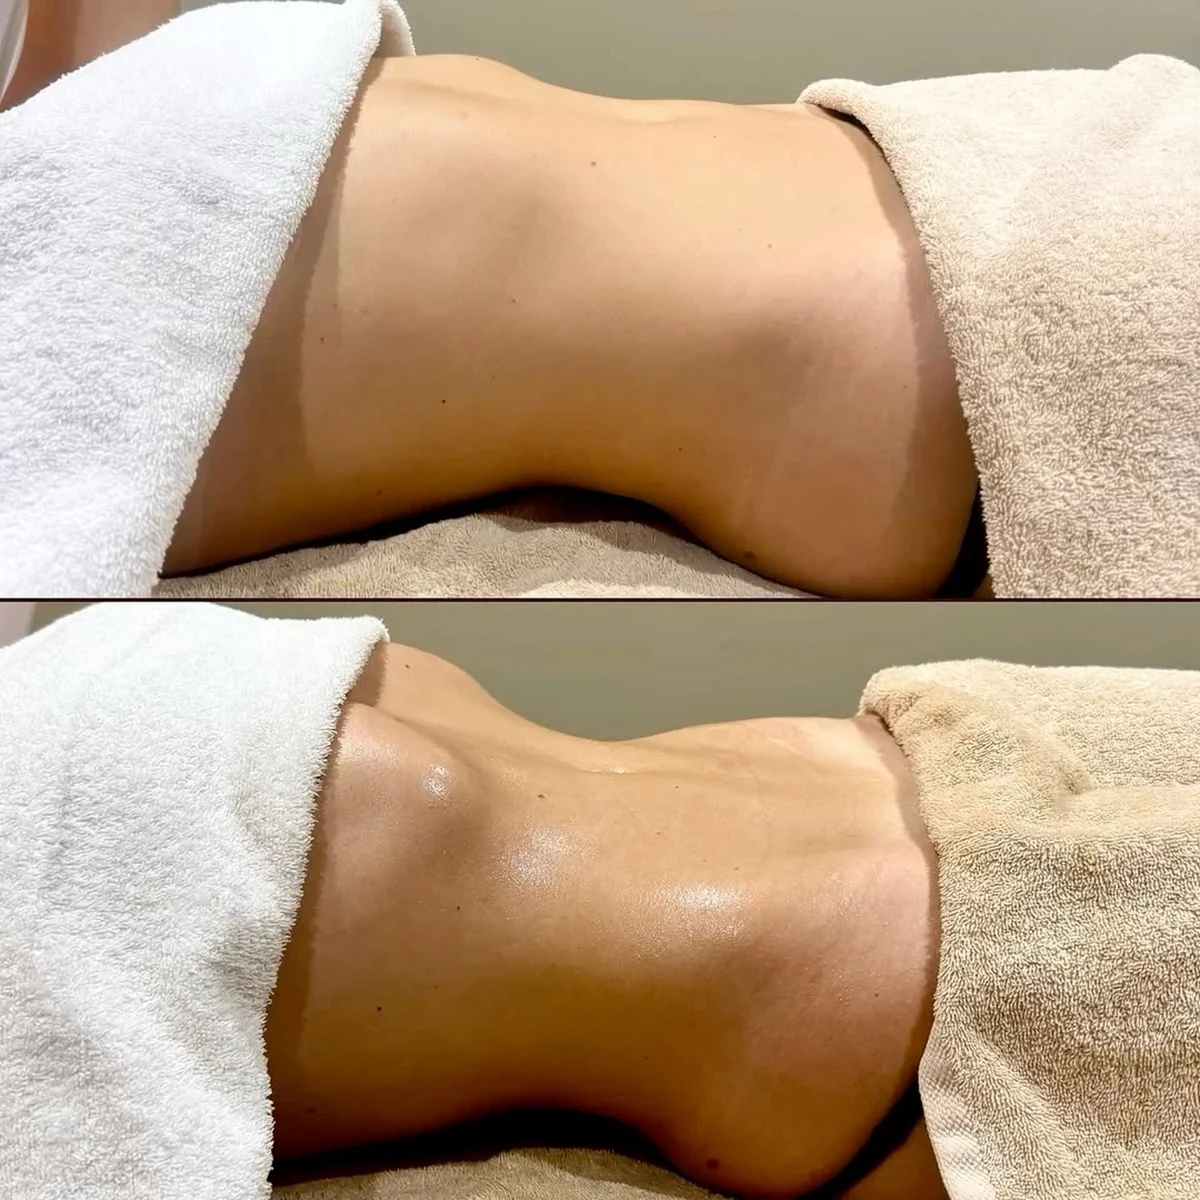
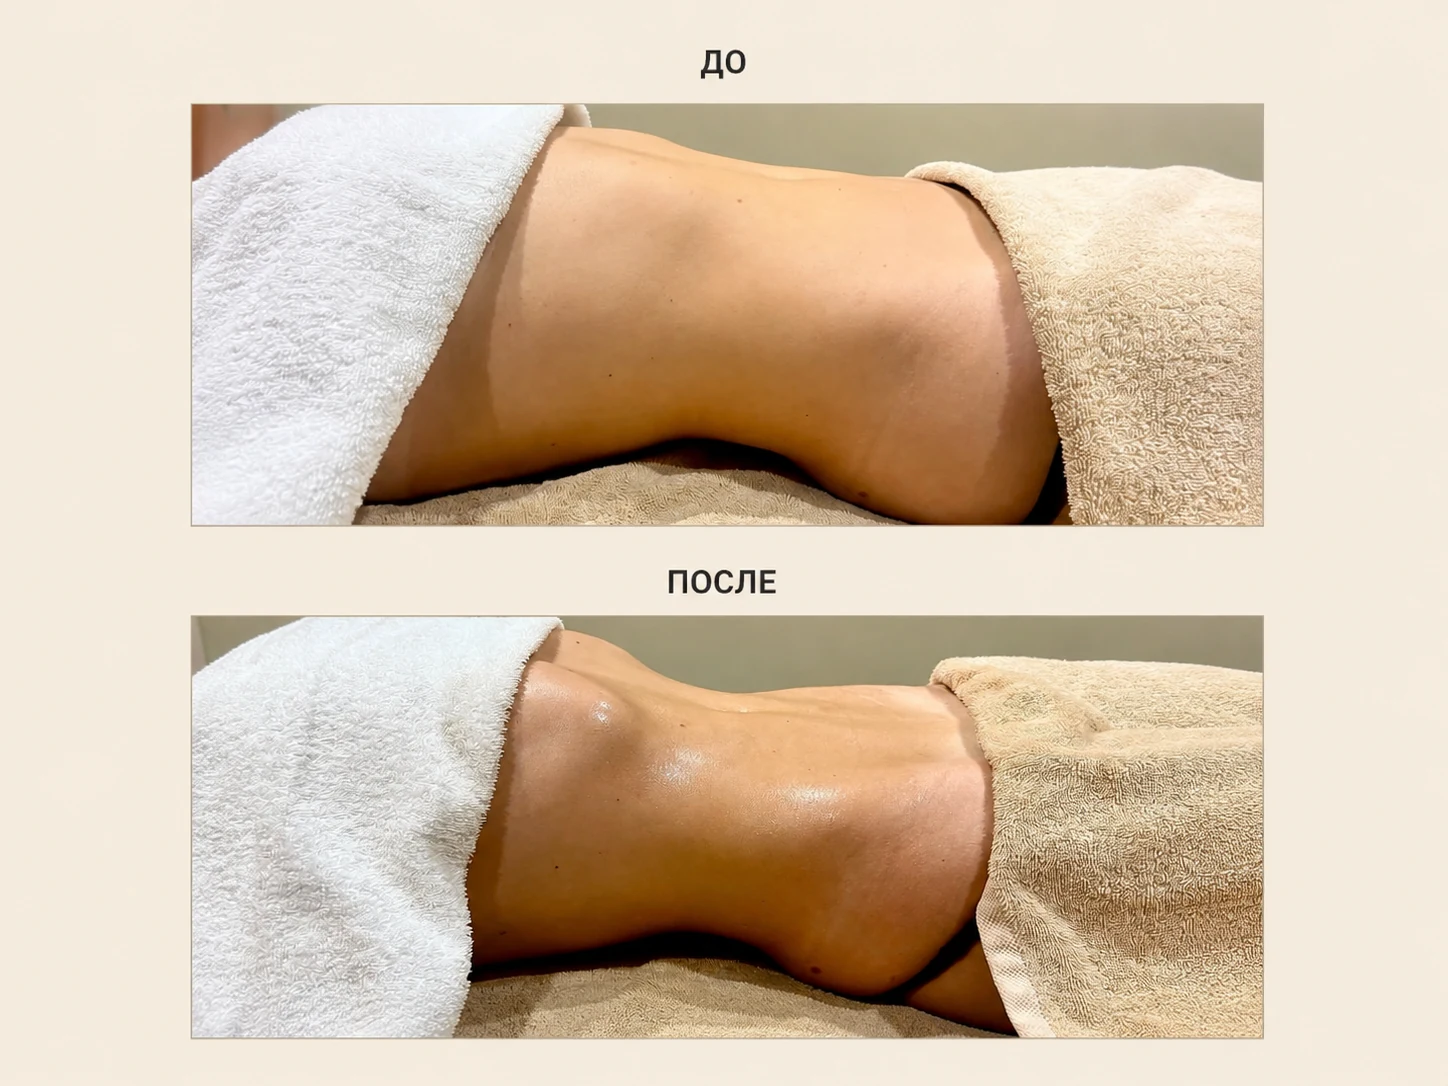
Перекадрировал 2 фото: обрезка 4:3 срезала смысл кадра
«Классический массаж спины» (u-back) — в исходном портретном кадре при
обрезке под карточку 4:3 в кадр попадала только голова, руки мастера уходили
за край. Поставлена версия с более широким кадром по горизонтали — спина
и руки видны целиком.

«Французская талия» (u-waist) — коллаж «до/после» без подписей терял середину
при центрированной обрезке 4:3. Поставлена версия 1448×1086 (уже готовое
соотношение 4:3) с подписями «ДО» и «ПОСЛЕ» над каждой половиной — теперь
CSS ничего не обрезает, обе панели видны полностью.

diff --git a/uslugi/korrekciya-figury/anticellyulitnyy-kompleks/index.html b/uslugi/korrekciya-figury/anticellyulitnyy-kompleks/index.html
@@ -180,7 +180,7 @@ if (window.CUERPO_METRIKA){
 <article class="card-s reveal">
   <a class="card-s__open" href="../../../uslugi/korrekciya-figury/francuzskaya-taliya/index.html">
     <span class="card-s__pic">
-      <img src="../../../assets/img/u-waist.webp" width="1200" height="1200" loading="lazy" decoding="async" alt="Результат до и после программы «Французская талия» в салоне Cuerpo в Тольятти">
+      <img src="../../../assets/img/u-waist.webp" width="1448" height="1086" loading="lazy" decoding="async" alt="Результат до и после программы «Французская талия» в салоне Cuerpo в Тольятти">
       <span class="card-s__more"><svg viewBox="0 0 24 24" aria-hidden="true"><path d="M9 6l6 6-6 6"/></svg></span>
     </span>
   </a>
@@ -218,7 +218,7 @@ if (window.CUERPO_METRIKA){
 <article class="card-s reveal">
   <a class="card-s__open" href="../../../uslugi/avtorskiy-massazh/massazh-spiny/index.html">
     <span class="card-s__pic">
-      <img src="../../../assets/img/u-back.webp" width="784" height="1168" loading="lazy" decoding="async" alt="Классический массаж спины в салоне Cuerpo в Тольятти">
+      <img src="../../../assets/img/u-back.webp" width="784" height="732" loading="lazy" decoding="async" alt="Классический массаж спины в салоне Cuerpo в Тольятти">
       <span class="card-s__more"><svg viewBox="0 0 24 24" aria-hidden="true"><path d="M9 6l6 6-6 6"/></svg></span>
     </span>
   </a>

diff --git a/uslugi/korrekciya-figury/anticellyulitnyy-nogi/index.html b/uslugi/korrekciya-figury/anticellyulitnyy-nogi/index.html
@@ -180,7 +180,7 @@ if (window.CUERPO_METRIKA){
 <article class="card-s reveal">
   <a class="card-s__open" href="../../../uslugi/korrekciya-figury/francuzskaya-taliya/index.html">
     <span class="card-s__pic">
-      <img src="../../../assets/img/u-waist.webp" width="1200" height="1200" loading="lazy" decoding="async" alt="Результат до и после программы «Французская талия» в салоне Cuerpo в Тольятти">
+      <img src="../../../assets/img/u-waist.webp" width="1448" height="1086" loading="lazy" decoding="async" alt="Результат до и после программы «Французская талия» в салоне Cuerpo в Тольятти">
       <span class="card-s__more"><svg viewBox="0 0 24 24" aria-hidden="true"><path d="M9 6l6 6-6 6"/></svg></span>
     </span>
   </a>
@@ -218,7 +218,7 @@ if (window.CUERPO_METRIKA){
 <article class="card-s reveal">
   <a class="card-s__open" href="../../../uslugi/avtorskiy-massazh/massazh-spiny/index.html">
     <span class="card-s__pic">
-      <img src="../../../assets/img/u-back.webp" width="784" height="1168" loading="lazy" decoding="async" alt="Классический массаж спины в салоне Cuerpo в Тольятти">
+      <img src="../../../assets/img/u-back.webp" width="784" height="732" loading="lazy" decoding="async" alt="Классический массаж спины в салоне Cuerpo в Тольятти">
       <span class="card-s__more"><svg viewBox="0 0 24 24" aria-hidden="true"><path d="M9 6l6 6-6 6"/></svg></span>
     </span>
   </a>

diff --git a/index.html b/index.html
@@ -269,7 +269,7 @@ if (window.CUERPO_METRIKA){
 <article class="card-s reveal">
   <a class="card-s__open" href="uslugi/avtorskiy-massazh/massazh-spiny/index.html">
     <span class="card-s__pic">
-      <img src="assets/img/u-back.webp" width="784" height="1168" loading="lazy" decoding="async" alt="Классический массаж спины в салоне Cuerpo в Тольятти">
+      <img src="assets/img/u-back.webp" width="784" height="732" loading="lazy" decoding="async" alt="Классический массаж спины в салоне Cuerpo в Тольятти">
       <span class="card-s__more"><svg viewBox="0 0 24 24" aria-hidden="true"><path d="M9 6l6 6-6 6"/></svg></span>
     </span>
   </a>
@@ -289,7 +289,7 @@ if (window.CUERPO_METRIKA){
 <article class="card-s reveal">
   <a class="card-s__open" href="uslugi/korrekciya-figury/francuzskaya-taliya/index.html">
     <span class="card-s__pic">
-      <img src="assets/img/u-waist.webp" width="1200" height="1200" loading="lazy" decoding="async" alt="Результат до и после программы «Французская талия» в салоне Cuerpo в Тольятти">
+      <img src="assets/img/u-waist.webp" width="1448" height="1086" loading="lazy" decoding="async" alt="Результат до и после программы «Французская талия» в салоне Cuerpo в Тольятти">
       <span class="card-s__more"><svg viewBox="0 0 24 24" aria-hidden="true"><path d="M9 6l6 6-6 6"/></svg></span>
     </span>
   </a>

diff --git a/uslugi/korrekciya-figury/francuzskaya-taliya/index.html b/uslugi/korrekciya-figury/francuzskaya-taliya/index.html
@@ -114,7 +114,7 @@ if (window.CUERPO_METRIKA){
 
     <div class="svcp">
       <figure class="svcp__pic reveal">
-        <img src="../../../assets/img/u-waist.webp" width="1200" height="1200"
+        <img src="../../../assets/img/u-waist.webp" width="1448" height="1086"
              fetchpriority="high" decoding="async" alt="Результат до и после программы «Французская талия» в салоне Cuerpo в Тольятти">
       </figure>
 
@@ -235,7 +235,7 @@ if (window.CUERPO_METRIKA){
 <article class="card-s reveal">
   <a class="card-s__open" href="../../../uslugi/avtorskiy-massazh/massazh-spiny/index.html">
     <span class="card-s__pic">
-      <img src="../../../assets/img/u-back.webp" width="784" height="1168" loading="lazy" decoding="async" alt="Классический массаж спины в салоне Cuerpo в Тольятти">
+      <img src="../../../assets/img/u-back.webp" width="784" height="732" loading="lazy" decoding="async" alt="Классический массаж спины в салоне Cuerpo в Тольятти">
       <span class="card-s__more"><svg viewBox="0 0 24 24" aria-hidden="true"><path d="M9 6l6 6-6 6"/></svg></span>
     </span>
   </a>

diff --git a/uslugi/korrekciya-figury/index.html b/uslugi/korrekciya-figury/index.html
@@ -122,7 +122,7 @@ if (window.CUERPO_METRIKA){
 <article class="card-s reveal">
   <a class="card-s__open" href="francuzskaya-taliya/index.html">
     <span class="card-s__pic">
-      <img src="../../assets/img/u-waist.webp" width="1200" height="1200" loading="lazy" decoding="async" alt="Результат до и после программы «Французская талия» в салоне Cuerpo в Тольятти">
+      <img src="../../assets/img/u-waist.webp" width="1448" height="1086" loading="lazy" decoding="async" alt="Результат до и после программы «Французская талия» в салоне Cuerpo в Тольятти">
       <span class="card-s__more"><svg viewBox="0 0 24 24" aria-hidden="true"><path d="M9 6l6 6-6 6"/></svg></span>
     </span>
   </a>

diff --git a/uslugi/avtorskiy-massazh/ispanskiy-massazh/index.html b/uslugi/avtorskiy-massazh/ispanskiy-massazh/index.html
@@ -180,7 +180,7 @@ if (window.CUERPO_METRIKA){
 <article class="card-s reveal">
   <a class="card-s__open" href="../../../uslugi/avtorskiy-massazh/massazh-spiny/index.html">
     <span class="card-s__pic">
-      <img src="../../../assets/img/u-back.webp" width="784" height="1168" loading="lazy" decoding="async" alt="Классический массаж спины в салоне Cuerpo в Тольятти">
+      <img src="../../../assets/img/u-back.webp" width="784" height="732" loading="lazy" decoding="async" alt="Классический массаж спины в салоне Cuerpo в Тольятти">
       <span class="card-s__more"><svg viewBox="0 0 24 24" aria-hidden="true"><path d="M9 6l6 6-6 6"/></svg></span>
     </span>
   </a>

diff --git a/uslugi/avtorskiy-massazh/massazh-dlya-beremennyh/index.html b/uslugi/avtorskiy-massazh/massazh-dlya-beremennyh/index.html
@@ -195,7 +195,7 @@ if (window.CUERPO_METRIKA){
 <article class="card-s reveal">
   <a class="card-s__open" href="../../../uslugi/avtorskiy-massazh/massazh-spiny/index.html">
     <span class="card-s__pic">
-      <img src="../../../assets/img/u-back.webp" width="784" height="1168" loading="lazy" decoding="async" alt="Классический массаж спины в салоне Cuerpo в Тольятти">
+      <img src="../../../assets/img/u-back.webp" width="784" height="732" loading="lazy" decoding="async" alt="Классический массаж спины в салоне Cuerpo в Тольятти">
       <span class="card-s__more"><svg viewBox="0 0 24 24" aria-hidden="true"><path d="M9 6l6 6-6 6"/></svg></span>
     </span>
   </a>

diff --git a/uslugi/avtorskiy-massazh/massazh-vsego-tela/index.html b/uslugi/avtorskiy-massazh/massazh-vsego-tela/index.html
@@ -181,7 +181,7 @@ if (window.CUERPO_METRIKA){
 <article class="card-s reveal">
   <a class="card-s__open" href="../../../uslugi/avtorskiy-massazh/massazh-spiny/index.html">
     <span class="card-s__pic">
-      <img src="../../../assets/img/u-back.webp" width="784" height="1168" loading="lazy" decoding="async" alt="Классический массаж спины в салоне Cuerpo в Тольятти">
+      <img src="../../../assets/img/u-back.webp" width="784" height="732" loading="lazy" decoding="async" alt="Классический массаж спины в салоне Cuerpo в Тольятти">
       <span class="card-s__more"><svg viewBox="0 0 24 24" aria-hidden="true"><path d="M9 6l6 6-6 6"/></svg></span>
     </span>
   </a>

diff --git a/uslugi/avtorskiy-massazh/sportivnyy-massazh/index.html b/uslugi/avtorskiy-massazh/sportivnyy-massazh/index.html
@@ -196,7 +196,7 @@ if (window.CUERPO_METRIKA){
 <article class="card-s reveal">
   <a class="card-s__open" href="../../../uslugi/avtorskiy-massazh/massazh-spiny/index.html">
     <span class="card-s__pic">
-      <img src="../../../assets/img/u-back.webp" width="784" height="1168" loading="lazy" decoding="async" alt="Классический массаж спины в салоне Cuerpo в Тольятти">
+      <img src="../../../assets/img/u-back.webp" width="784" height="732" loading="lazy" decoding="async" alt="Классический массаж спины в салоне Cuerpo в Тольятти">
       <span class="card-s__more"><svg viewBox="0 0 24 24" aria-hidden="true"><path d="M9 6l6 6-6 6"/></svg></span>
     </span>
   </a>

diff --git a/uslugi/massazh-lica/bukkalnyy-massazh/index.html b/uslugi/massazh-lica/bukkalnyy-massazh/index.html
@@ -288,7 +288,7 @@ if (window.CUERPO_METRIKA){
 <article class="card-s reveal">
   <a class="card-s__open" href="../../../uslugi/avtorskiy-massazh/massazh-spiny/index.html">
     <span class="card-s__pic">
-      <img src="../../../assets/img/u-back.webp" width="784" height="1168" loading="lazy" decoding="async" alt="Классический массаж спины в салоне Cuerpo в Тольятти">
+      <img src="../../../assets/img/u-back.webp" width="784" height="732" loading="lazy" decoding="async" alt="Классический массаж спины в салоне Cuerpo в Тольятти">
       <span class="card-s__more"><svg viewBox="0 0 24 24" aria-hidden="true"><path d="M9 6l6 6-6 6"/></svg></span>
     </span>
   </a>

diff --git a/uslugi/massazh-lica/formula-krasoty/index.html b/uslugi/massazh-lica/formula-krasoty/index.html
@@ -271,7 +271,7 @@ if (window.CUERPO_METRIKA){
 <article class="card-s reveal">
   <a class="card-s__open" href="../../../uslugi/avtorskiy-massazh/massazh-spiny/index.html">
     <span class="card-s__pic">
-      <img src="../../../assets/img/u-back.webp" width="784" height="1168" loading="lazy" decoding="async" alt="Классический массаж спины в салоне Cuerpo в Тольятти">
+      <img src="../../../assets/img/u-back.webp" width="784" height="732" loading="lazy" decoding="async" alt="Классический массаж спины в салоне Cuerpo в Тольятти">
       <span class="card-s__more"><svg viewBox="0 0 24 24" aria-hidden="true"><path d="M9 6l6 6-6 6"/></svg></span>
     </span>
   </a>

diff --git a/uslugi/massazh-lica/massazh-golovy/index.html b/uslugi/massazh-lica/massazh-golovy/index.html
@@ -270,7 +270,7 @@ if (window.CUERPO_METRIKA){
 <article class="card-s reveal">
   <a class="card-s__open" href="../../../uslugi/avtorskiy-massazh/massazh-spiny/index.html">
     <span class="card-s__pic">
-      <img src="../../../assets/img/u-back.webp" width="784" height="1168" loading="lazy" decoding="async" alt="Классический массаж спины в салоне Cuerpo в Тольятти">
+      <img src="../../../assets/img/u-back.webp" width="784" height="732" loading="lazy" decoding="async" alt="Классический массаж спины в салоне Cuerpo в Тольятти">
       <span class="card-s__more"><svg viewBox="0 0 24 24" aria-hidden="true"><path d="M9 6l6 6-6 6"/></svg></span>
     </span>
   </a>
